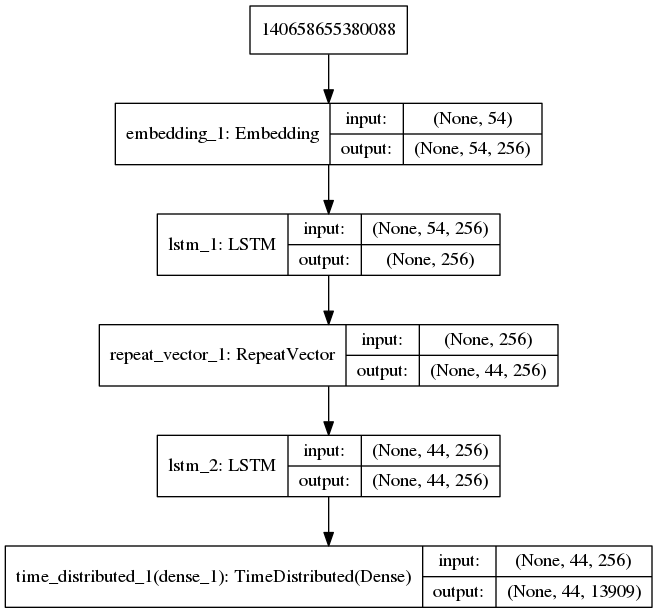
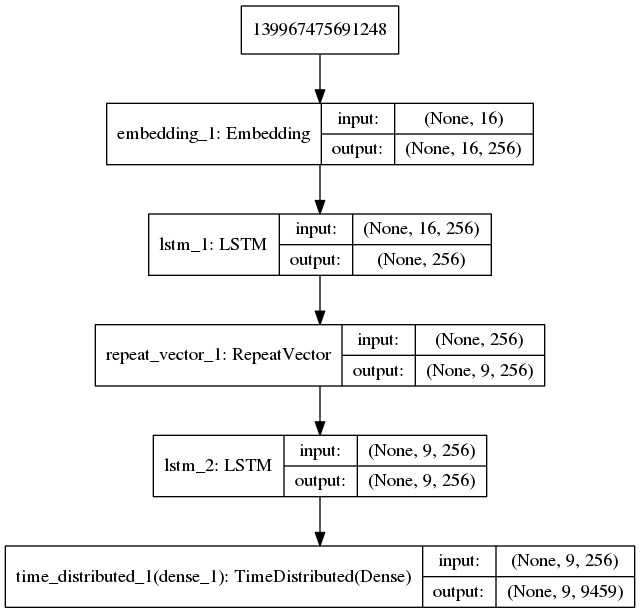
Fixed the generator in the trainer and reduced the number of lines it trains on

diff --git a/streamed_trainer.py b/streamed_trainer.py
@@ -20,9 +20,9 @@ from pprint import pprint
 
 class corpus_sequence(Sequence):
 
-    """Docstring for corpus_sequence.
+    """
     This creates a generator to process the corpus in batches
-    using Keras Sequence to allow for multiprocessing
+    extending upon Keras' Sequence to allow for multiprocessing
     """
 
     def __init__(self,
@@ -44,27 +44,43 @@ class corpus_sequence(Sequence):
         self.tar_vocab = tar_vocab
         self.line_length_french = line_length_french
         self.line_length_english = line_length_english
+        self.batch_counter = 0
 
     def __len__(self):
+        """
+        Returns the number of batches processed per epoch as the length
+        :returns: batches_per_epoch
+
+        """
         return self.batches_per_epoch
 
     def __getitem__(self, idx):
+        """
+        Returns a tuple of (source text, target translation) pairs, with the
+        target translation as a sparse matrix
+        :returns: tuple with 2 numpy arrays
+
+        """
         train_sample = np.empty((self.batch_size, self.line_length_french), dtype=int)
         test_sample = np.empty((self.batch_size, self.line_length_english), dtype=int)
         for i in range(self.batch_size):
             train_line = self.train.readline()
-            split_train_line = [int(weight) for weight in train_line.split()]
+            split_train_line = [int(weight) for weight in train_line.strip().split(' ')
+                                if weight != '']
             len_train = len(split_train_line)
             # Pad with zeros
             [split_train_line.append(0.0) for i in range(self.line_length_french - len_train)]
 
             test_line = self.test.readline()
-            split_test_line = [int(weight) for weight in test_line.split()]
+            split_test_line = [int(weight) for weight in test_line.strip().split(' ')]
             len_test = len(split_test_line)
             [split_test_line.append(0.0) for i in range(self.line_length_english - len_test)]
 
             train_sample[i] = array(split_train_line)
             test_sample[i] = array(split_test_line)
+
+        #  self.batch_counter += 1
+        #  print(self.batch_counter / self.batches_per_epoch)
 
         return train_sample, to_categorical(test_sample, num_classes=self.src_vocab)
 
@@ -75,47 +91,22 @@ class corpus_sequence(Sequence):
         """
         self.train.seek(0)
         self.test.seek(0)
+        #  self.batch_counter = 0
 
 
-# load a clean dataset
-def load_clean_sentences(filename):
-    return load(open('pickle/' + filename, 'rb'))
-
-
-# fit a tokenizer
-def create_tokenizer(lines):
-    tokenizer = Tokenizer()
-    tokenizer.fit_on_texts(lines)
-    return tokenizer
-
-
-# max sentence length
-def max_length(lines):
-    return max(len(line.split()) for line in lines)
-
-
-# encode and pad sequences
-def encode_sequences(tokenizer, length, lines):
-    # integer encode sequences
-    X = tokenizer.texts_to_sequences(lines)
-    # pad sequences with 0 values
-    X = pad_sequences(X, maxlen=length, padding='post')
-    return X
-
-
-# one hot encode target sequence
-def encode_output(sequences, vocab_size):
-    ylist = list()
-    for sequence in sequences:
-        encoded = to_categorical(sequence, num_classes=vocab_size)
-        ylist.append(encoded)
-    y = array(ylist)
-    y = y.reshape(sequences.shape[0], sequences.shape[1], vocab_size)
-    return y
-
-
-# define NMT model
 def define_model(src_vocab, tar_vocab, src_timesteps, tar_timesteps, n_units):
+    """
+    The Keras neural network created for this translation. This uses the encoder-decoder
+    architecture with LSTM encoders and decoders to convert the sentences into a fixed
+    length word vector
+
+    :param int src_vocab: Number of unique words tokenized in the source language
+    :param int tar_vocab: Number of unique words tokenized in the target language
+    :param int src_timesteps: Maximum number of words in a phrase in the source language
+    :param int tar_timesteps: Maximum number of words in a phrase in the target language
+    :param int n_units: Number of LSTM neurons in the encoder and decoder
+    :returns: A Keras model
+    """
     model = Sequential()
     model.add(Embedding(src_vocab, n_units, input_length=src_timesteps, mask_zero=True))
     model.add(LSTM(n_units))
@@ -128,12 +119,13 @@ def define_model(src_vocab, tar_vocab, src_timesteps, tar_timesteps, n_units):
 target_language = 'french'
 
 corpra_stats = json.load(open('corpra/english_%s_stats.json' % target_language, 'r'))
-lines_per_batch = 128
+lines_per_batch = 256
 batches_per_epoch = corpra_stats['number_of_sentences'] // lines_per_batch
 src_num_unique_words = corpra_stats['english_vocabulary']
 tar_num_unique_words = corpra_stats['target_vocabulary']
 max_line_length_english = corpra_stats['longest_english_sentence']
 max_line_length_french = corpra_stats['longest_target_sentence']
+
 # define model
 model = define_model(tar_num_unique_words,
                      src_num_unique_words,
@@ -141,10 +133,13 @@ model = define_model(tar_num_unique_words,
                      max_line_length_english,
                      256
                      )
+
 model.compile(optimizer='adam', loss='categorical_crossentropy')
+
 # summarize defined model
 print(model.summary())
 plot_model(model, to_file='model.png', show_shapes=True)
+
 # fit model
 filename = 'english_%s_model.h5' % target_language
 checkpoint = ModelCheckpoint('models/' + filename,
@@ -175,10 +170,10 @@ with open('corpra/encoded_en.txt', 'r') as english_encoded\
                           max_line_length_english
                           )
     model.fit_generator(generator=gen,
-                        epochs=10,
+                        epochs=30,
                         validation_data=gen,
                         callbacks=[checkpoint],
-                        verbose=2,
+                        verbose=1,
                         use_multiprocessing=True,
                         workers=1
                         )

diff --git a/streamed_tester.py b/streamed_tester.py
@@ -1,4 +1,4 @@
-from json import load
+import json
 from pickle import load
 from numpy import array
 from numpy import argmax
@@ -47,6 +47,7 @@ def word_for_id(integer, tokenizer):
 def predict_sequence(model, tokenizer, source):
     prediction = model.predict(source, verbose=0)[0]
     integers = [argmax(vector) for vector in prediction]
+    print(integers)
     target = list()
     for i in integers:
         word = word_for_id(i, tokenizer)
@@ -64,15 +65,14 @@ def evaluate_model(model, tokenizer, sources, target, src):
             # translate encoded source text
             source = source.reshape((1, source.shape[0]))  # convert vector to array for predict method
             translation = predict_sequence(model, tokenizer, source)
-            print(source)
-            raw_target = target[i].split()
-            raw_src = src[i].split()
+            raw_tar = ' '.join([word_for_id(token, tokenizer) for token in target[i]])
+            raw_src = ' '.join([word_for_id(token, fr_tokenizer) for token in src[i]])
             if i < 10:
                 print('src=[%s], target=[%s], predicted=[%s]' %
-                      (raw_src, raw_target, translation))
+                      (raw_src, raw_tar, translation))
             all_translations.write('src=[%s], target=[%s], predicted=[%s]\n' %
-                                   (raw_src, raw_target, translation))
-            actual.append(raw_target)
+                                   (raw_src, raw_tar, translation))
+            actual.append(raw_tar)
             predicted.append(translation)
     # calculate BLEU score
     print('BLEU-1: %f' % corpus_bleu(actual, predicted, weights=(1.0, 0, 0, 0)))
@@ -83,13 +83,13 @@ def evaluate_model(model, tokenizer, sources, target, src):
 
 target_language = 'french'
 # load datasets
-eng_tokenizer = load(open('/mnt/E4A696A5A69677AE/en_tokenizer.pkl', 'rb'))
-fr_tokenizer = load(open('/mnt/E4A696A5A69677AE/fr_tokenizer.pkl', 'rb'))
+eng_tokenizer = load(open('pickle/english_tokenizer.pkl', 'rb'))
+fr_tokenizer = load(open('pickle/%s_tokenizer.pkl' % target_language, 'rb'))
 #  print(eng_tokenizer.word_index.values())
 #  eng_tokenizer = Tokenizer()
 #  fr_tokenizer = Tokenizer()
-train = open('/mnt/E4A696A5A69677AE/french-reduced-dataset.txt', 'r')
-test = open('/mnt/E4A696A5A69677AE/english-reduced-dataset.txt', 'r')
+train = open('corpra/encoded_%s.txt' % target_language, 'r')
+test = open('corpra/encoded_en.txt', 'r')
 
 # load model
 model = load_model('models/english_%s_model.h5' % target_language)
@@ -98,12 +98,23 @@ model = load_model('models/english_%s_model.h5' % target_language)
 #  evaluate_model(model, eng_tokenizer, trainX, train)
 # test on some test sequences
 print('test')
+corpra_stats = json.load(open('corpra/english_%s_stats.json' % target_language, 'r'))
 num_samples = 10
-raw_source = [train.readline().strip() for i in range(num_samples)]
-raw_target = [test.readline().strip() for i in range(num_samples)]
+raw_source = []
+raw_target = []
+for i in range(num_samples):
+    src_sentence = train.readline().strip().split(' ')
+    tar_sentence = test.readline().strip().split(' ')
+    if src_sentence[0] is '' or tar_sentence[0] is '':
+        continue
+    # Convert string numbers to integers for tokenizer
+    raw_source.append([int(token) for token in src_sentence])
+    raw_target.append([int(token) for token in tar_sentence])
+    print(pad_sequences(raw_source, corpra_stats['longest_target_sentence'], padding='post'))
+
 evaluate_model(model,
                eng_tokenizer,
-               encode_sequences(fr_tokenizer, 15, raw_source),
+               pad_sequences(raw_source, corpra_stats['longest_target_sentence'], padding='post'),
                raw_target,
                raw_source
                )

diff --git a/prep_data.py b/prep_data.py
@@ -93,20 +93,22 @@ for i in range(20):
     print('[%s] => [%s]' % (clean_pairs[i, 0], clean_pairs[i, 1]))
 
 # Tokenize the words
-english_tokenizer = create_tokenizer(clean_pairs[:, 0])
-target_tokenizer = create_tokenizer(clean_pairs[:, 1])
+vocab_length = 5000
+idx_phrase = [len(sentence.split(' ')) for sentence in clean_pairs[:, 0]].index(10)
+english_tokenizer = create_tokenizer(clean_pairs[:idx_phrase, 0])
+target_tokenizer = create_tokenizer(clean_pairs[:idx_phrase, 1])
 save_pickle(english_tokenizer, 'english_tokenizer.pkl')
 save_pickle(target_tokenizer, '%s_tokenizer.pkl' % target_language)
 stats = {'longest_english_sentence': 0,
          'longest_target_sentence': 0,
          'english_vocabulary': max(english_tokenizer.word_index.values()),
          'target_vocabulary': max(target_tokenizer.word_index.values()),
-         'number_of_sentences': 0
+         'number_of_sentences': idx_phrase
          }
 with open('corpra/encoded_en.txt', 'w') as encoded_english_file,\
         open('corpra/encoded_%s.txt' % target_language, 'w') as encoded_target_file:
-    encoded_english = encode_sequences(english_tokenizer, clean_pairs[:, 0])
-    encoded_target = encode_sequences(target_tokenizer, clean_pairs[:, 1])
+    encoded_english = encode_sequences(english_tokenizer, clean_pairs[:idx_phrase, 0])
+    encoded_target = encode_sequences(target_tokenizer, clean_pairs[:idx_phrase, 1])
     stats['longest_english_sentence'] = len(max(encoded_english, key=len))
     stats['longest_target_sentence'] = len(max(encoded_target, key=len))
     encoded_english_separated = [[str(word) for word in sentence + ['\n']]
@@ -117,7 +119,7 @@ with open('corpra/encoded_en.txt', 'w') as encoded_english_file,\
     [encoded_target_file.write(' '.join(sentence)) for sentence in encoded_target_separated]
 
 # Get stats on the dataset for padding later
-stats['number_of_sentences'] = len(clean_pairs)
+#  stats['number_of_sentences'] = len(clean_pairs)
 print(stats)
 with open('corpra/english_%s_stats.json' % target_language, 'w') as f:
     json.dump(stats, f)
